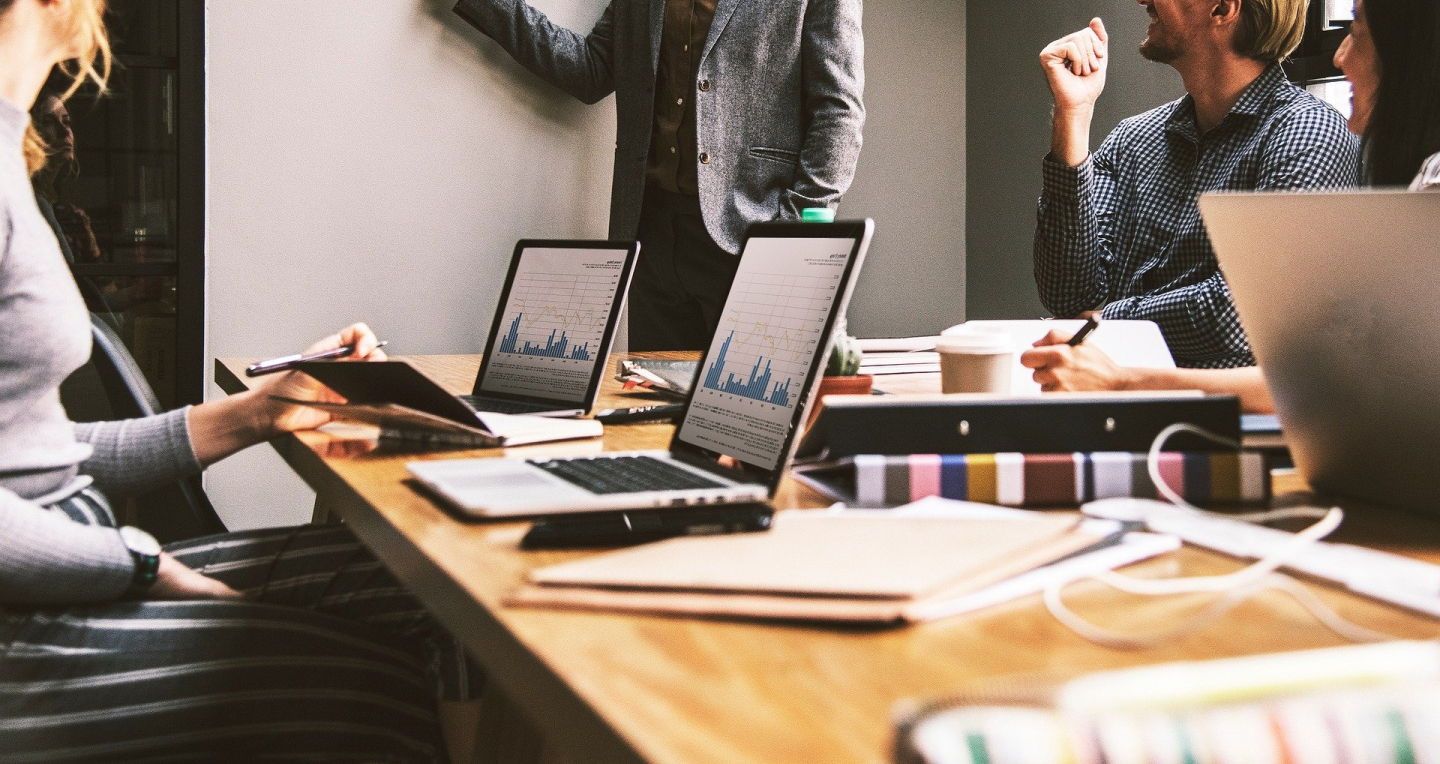
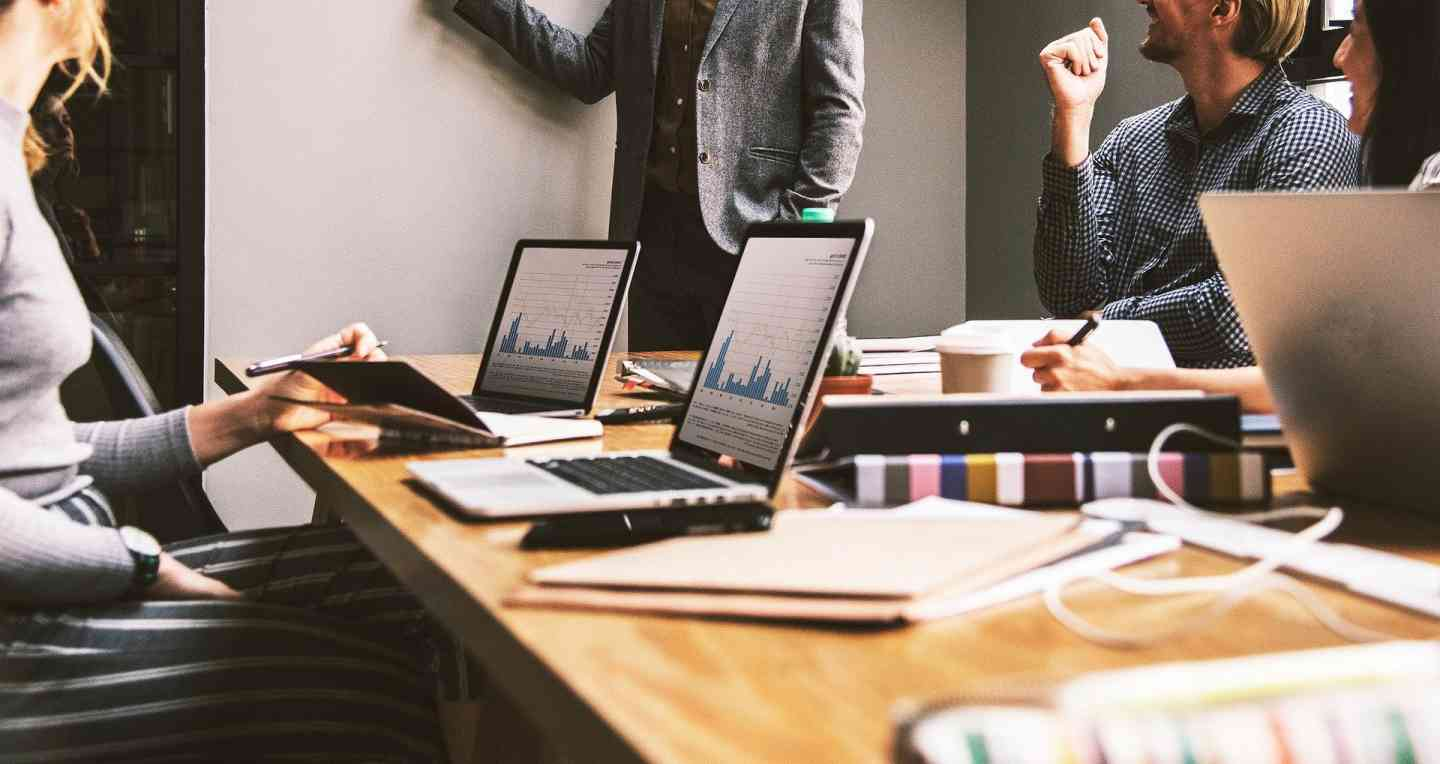
update: 画像圧縮｜ファビコン設定

diff --git a/webpack.config.js b/webpack.config.js
@@ -1,8 +1,8 @@
-const path = require("path");
-const MiniCssExtractPlugin = require("mini-css-extract-plugin");
-const CssMinimizerPlugin = require("css-minimizer-webpack-plugin");
-const TerserPlugin = require("terser-webpack-plugin");
-const enabledSourceMap = process.env.NODE_ENV !== "production";
+const path = require('path')
+const MiniCssExtractPlugin = require('mini-css-extract-plugin')
+const CssMinimizerPlugin = require('css-minimizer-webpack-plugin')
+const TerserPlugin = require('terser-webpack-plugin')
+const enabledSourceMap = process.env.NODE_ENV !== 'production'
 
 module.exports = {
   // モード値を production に設定すると最適化された状態で、

diff --git a/mops-website/header.php b/mops-website/header.php
@@ -7,4 +7,7 @@
     <link rel="stylesheet" href="<?php echo get_template_directory_uri(); ?>/dist/main.bundle.css">
     <!-- drawer.css -->
     <link rel="stylesheet" href="https://cdnjs.cloudflare.com/ajax/libs/drawer/3.2.2/css/drawer.min.css">    <title>株式会社MOPS | 公式ホームページです</title>
+
+    <!-- ファビコン -->
+    <link rel="shortcut icon" href="<?php echo get_template_directory_uri(); ?>/assets/images/logo/mops_logo_favicon.png">
 </head>
